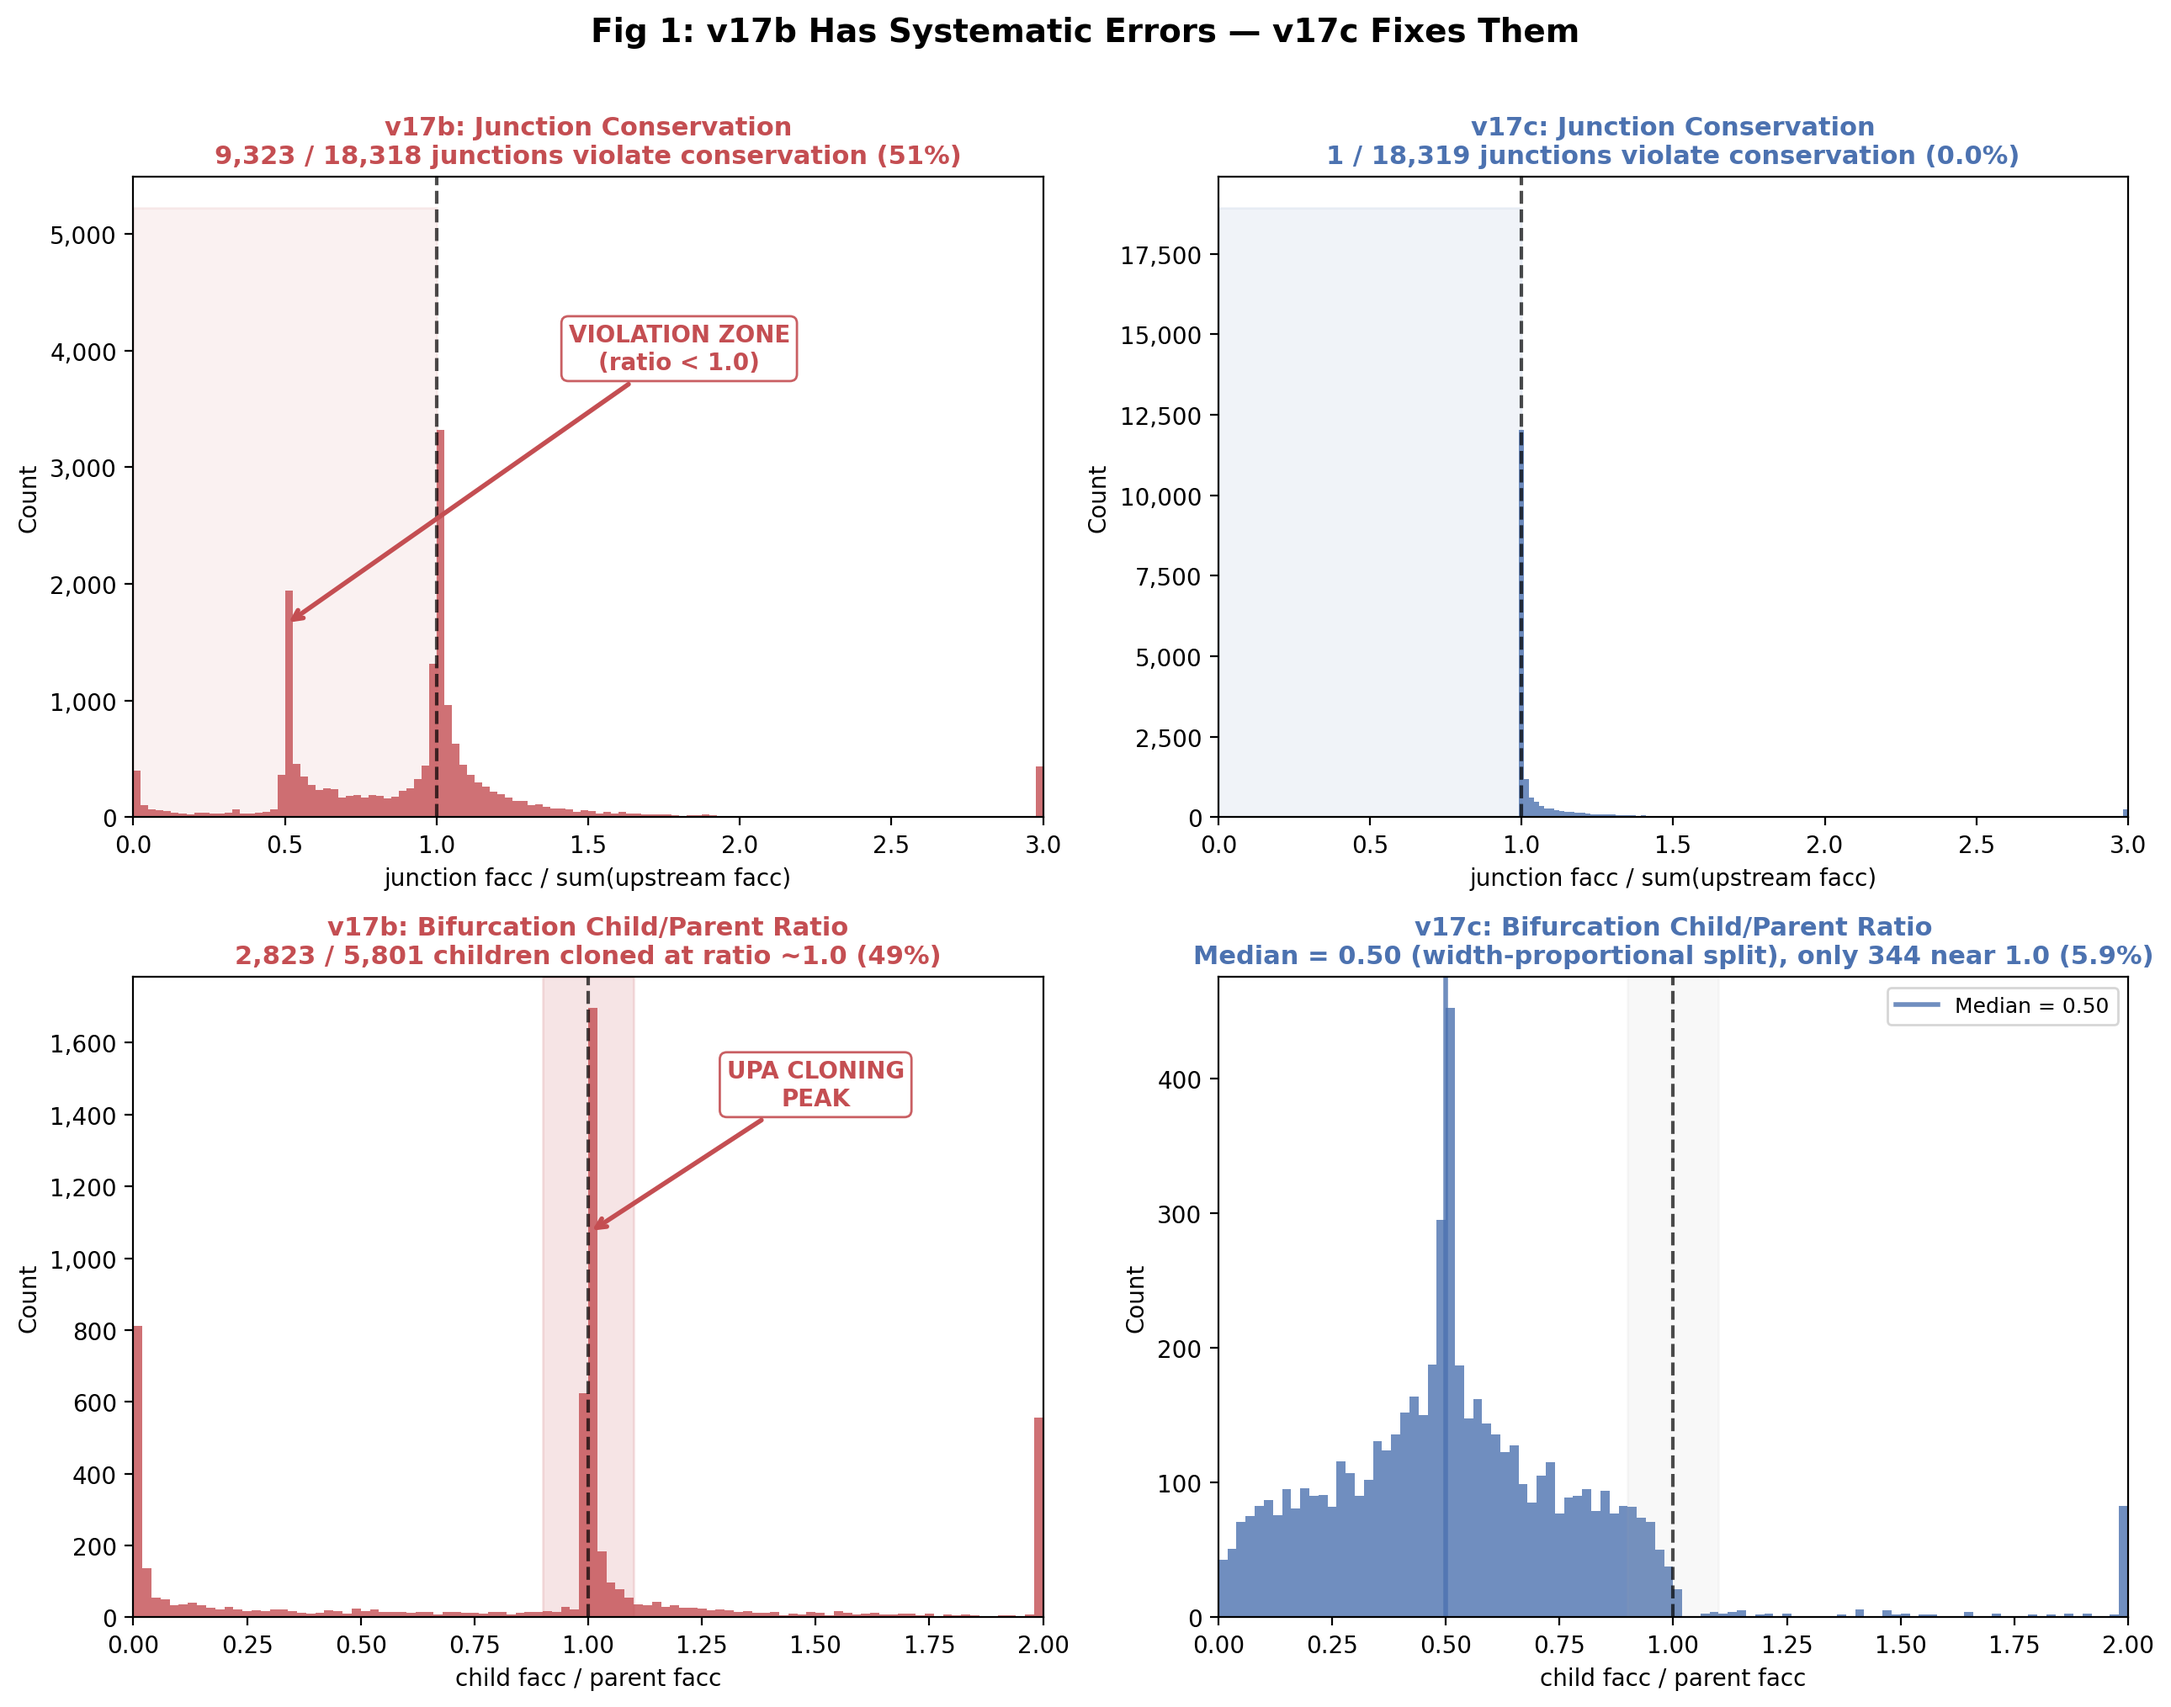
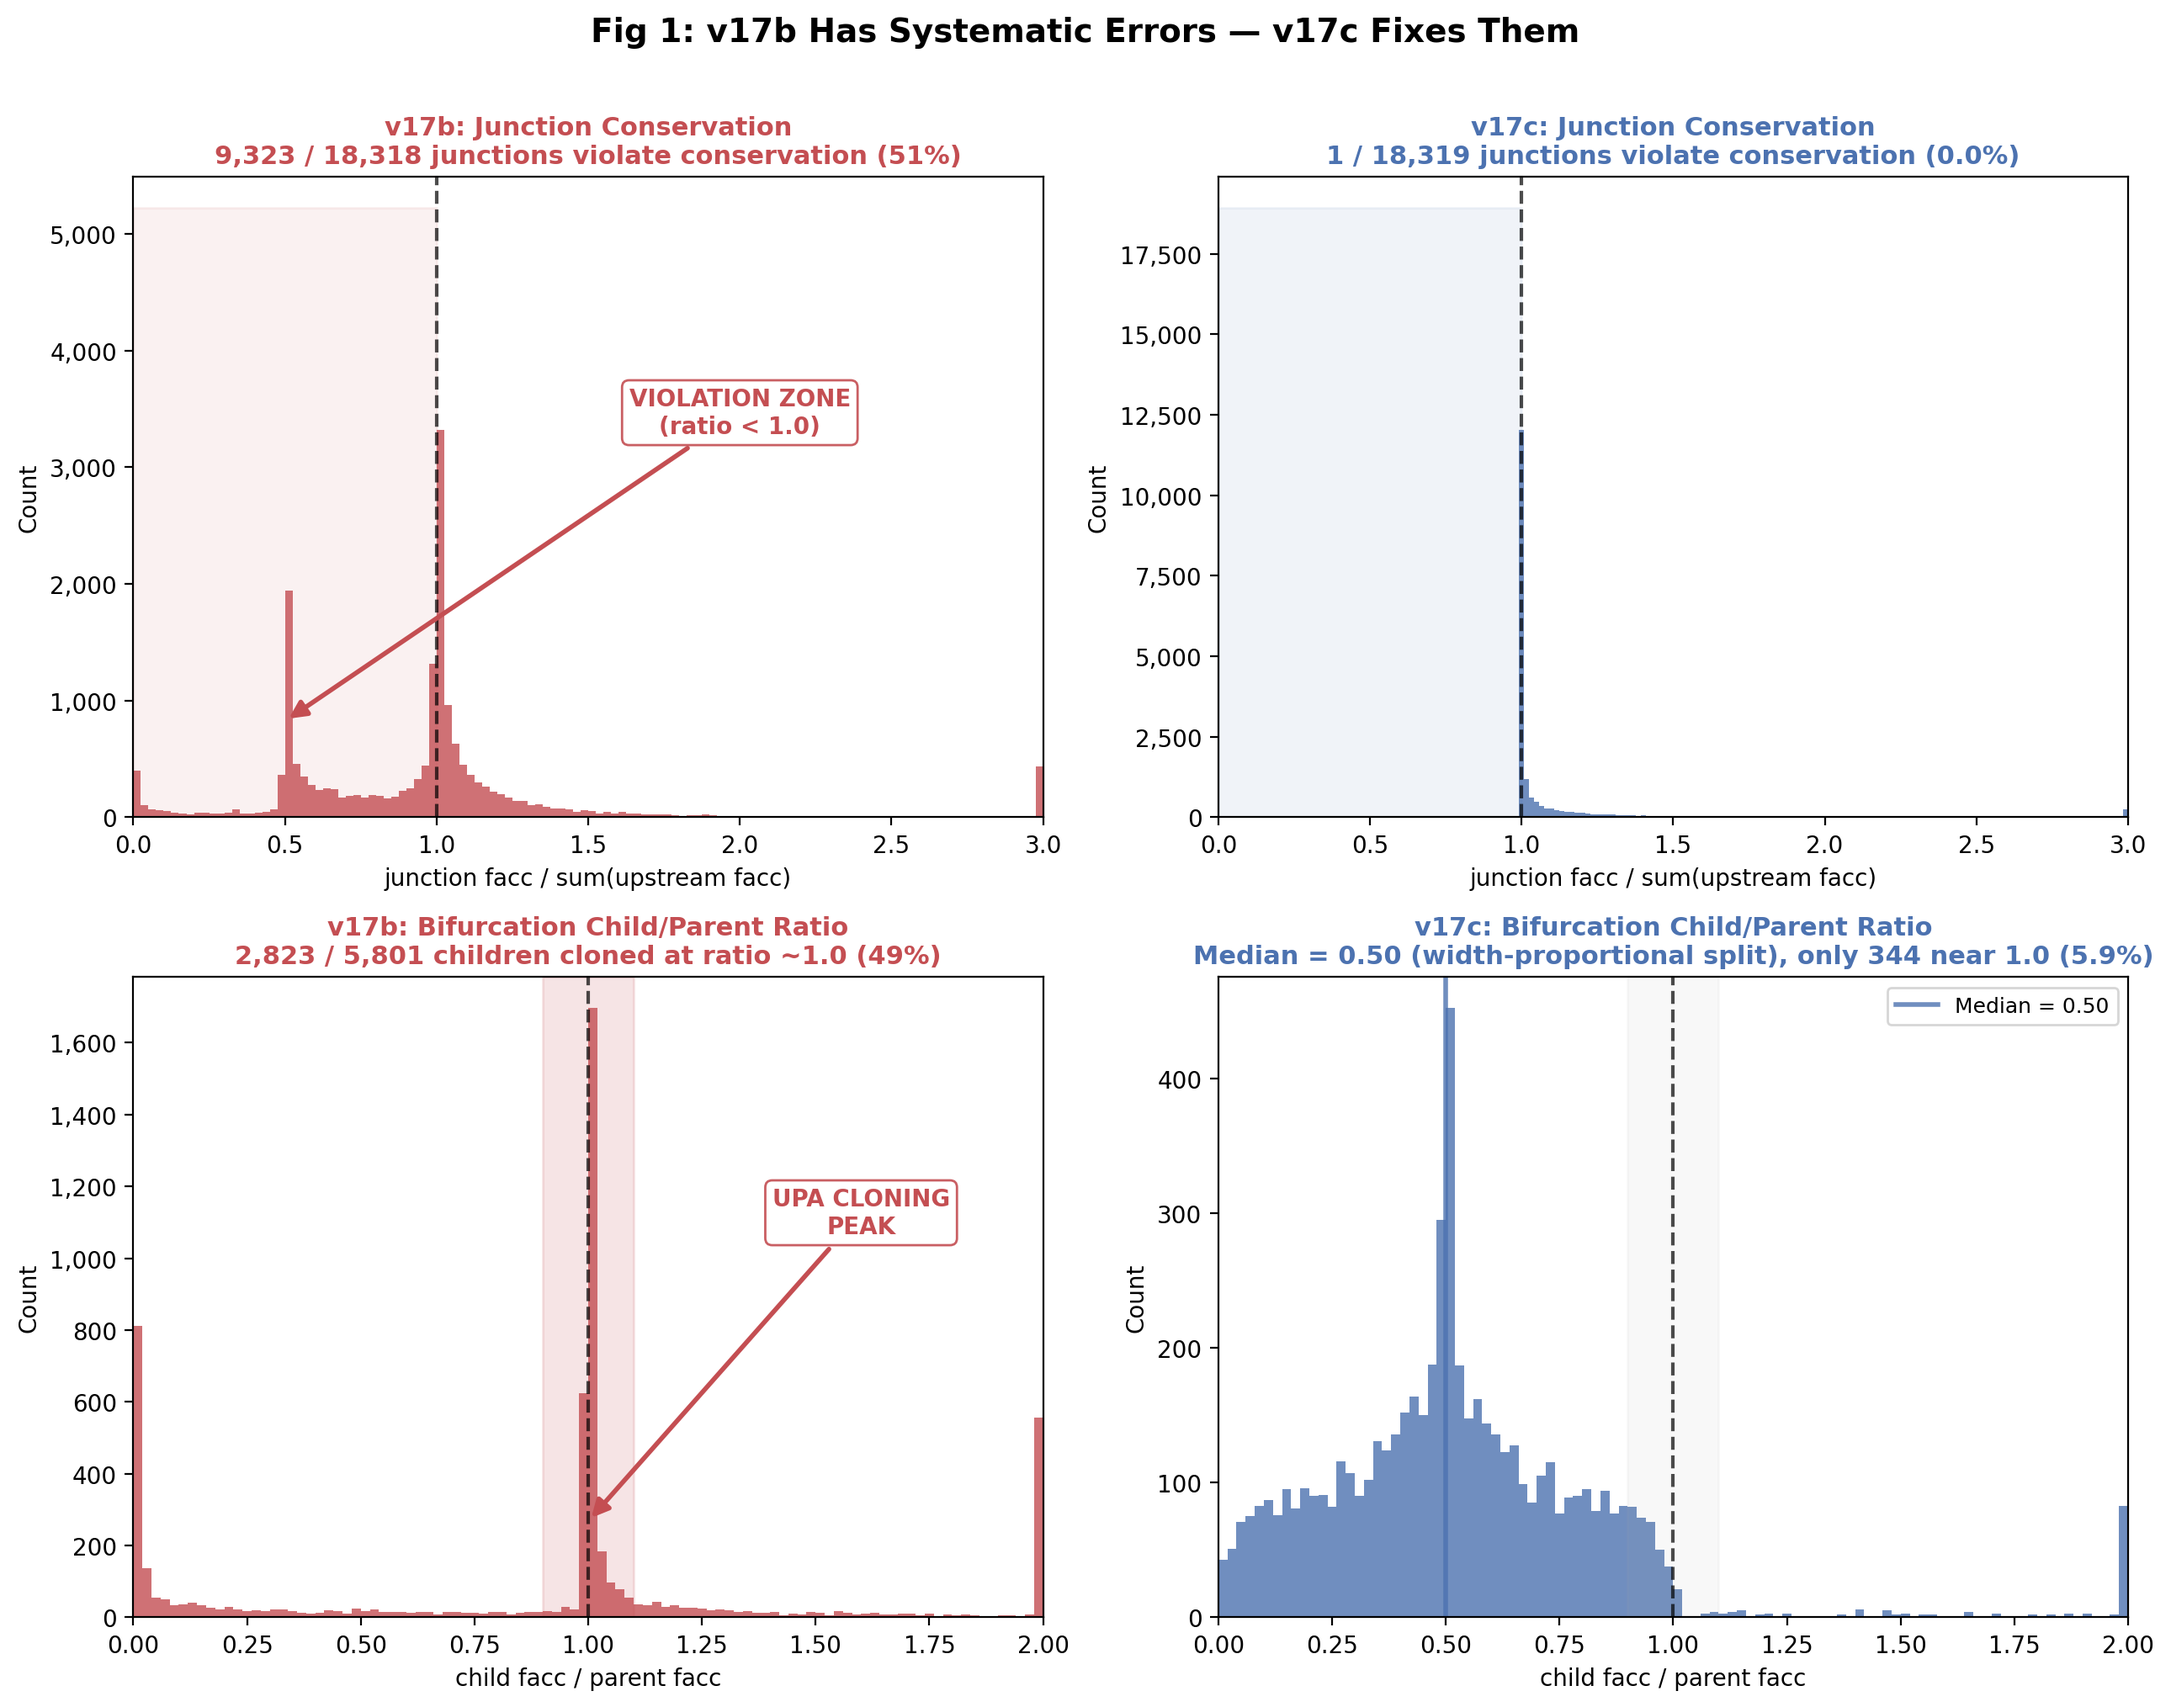
Fig1: point arrows at shaded blocks instead of data

diff --git a/scripts/generate_facc_report_figures.py b/scripts/generate_facc_report_figures.py
@@ -194,17 +194,17 @@ def fig1_before_after(
         color=V17B_COLOR,
         fontweight="bold",
     )
-    # Arrow pointing into the violation zone (left of x=1.0)
+    # Arrow pointing at the shaded violation-zone block (x=0..1.0)
     ylim = ax.get_ylim()
     ax.annotate(
         "VIOLATION ZONE\n(ratio < 1.0)",
-        xy=(0.5, ylim[1] * 0.3),
-        xytext=(1.8, ylim[1] * 0.7),
+        xy=(0.5, ylim[1] * 0.15),
+        xytext=(2.0, ylim[1] * 0.6),
         fontsize=10,
         color=V17B_COLOR,
         fontweight="bold",
         ha="center",
-        arrowprops=dict(arrowstyle="->", color=V17B_COLOR, lw=2),
+        arrowprops=dict(arrowstyle="-|>", color=V17B_COLOR, lw=2, mutation_scale=15),
         bbox=dict(boxstyle="round,pad=0.3", fc="white", ec=V17B_COLOR, alpha=0.9),
     )
     ax.yaxis.set_major_formatter(ticker.FuncFormatter(lambda x, _: f"{x:,.0f}"))
@@ -255,17 +255,17 @@ def fig1_before_after(
         color=V17B_COLOR,
         fontweight="bold",
     )
-    # Arrow pointing at the cloning spike near ratio=1.0
+    # Arrow pointing at the shaded cloning band (axvspan 0.9..1.1)
     ylim_b = ax.get_ylim()
     ax.annotate(
         "UPA CLONING\nPEAK",
-        xy=(1.0, ylim_b[1] * 0.6),
-        xytext=(1.5, ylim_b[1] * 0.8),
+        xy=(1.0, ylim_b[1] * 0.15),
+        xytext=(1.6, ylim_b[1] * 0.6),
         fontsize=10,
         color=V17B_COLOR,
         fontweight="bold",
         ha="center",
-        arrowprops=dict(arrowstyle="->", color=V17B_COLOR, lw=2),
+        arrowprops=dict(arrowstyle="-|>", color=V17B_COLOR, lw=2, mutation_scale=15),
         bbox=dict(boxstyle="round,pad=0.3", fc="white", ec=V17B_COLOR, alpha=0.9),
     )
     ax.yaxis.set_major_formatter(ticker.FuncFormatter(lambda x, _: f"{x:,.0f}"))
